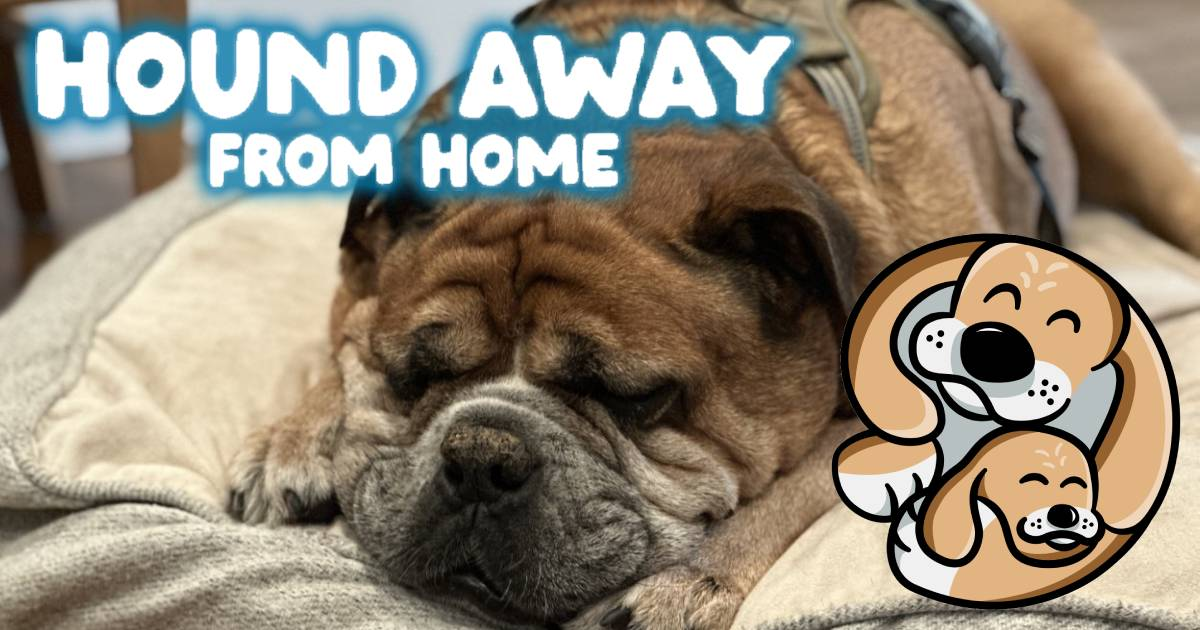
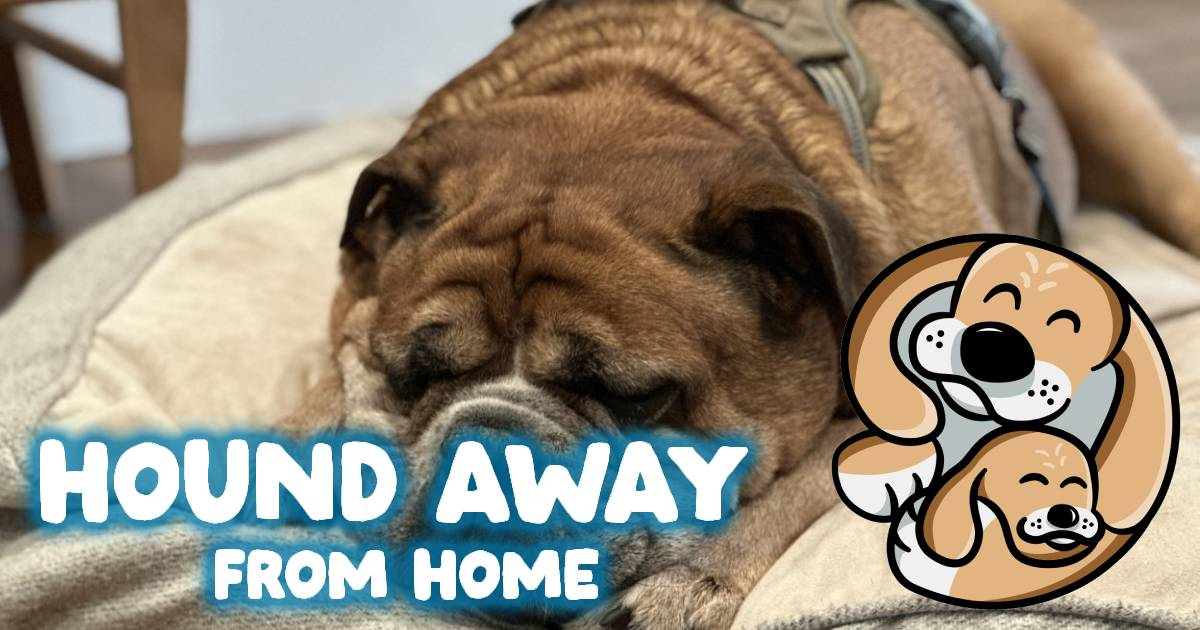
updated share images

Changed region(s): [[0.0, 0.6635, 0.6475, 0.9952], [0.0, 0.0, 0.6783, 0.3317]]

diff --git a/includes/head-tag-contents.php b/includes/head-tag-contents.php
@@ -4,7 +4,7 @@ $webhostUrl = (isset($_SERVER['SCRIPT_URL']) && isset($_SERVER['SCRIPT_URI'])) ?
 $title = "Hound Away From Home" . (isset($_GLOBALS["pageTitle"]) ? " - " . $_GLOBALS["pageTitle"] : "");
 $defaultDescription = "Welcome to Hound Away from Home, where your beloved canine companion finds a safe haven for boarding and daycare, ensuring they receive the care, attention, and fun they deserve while you're away.";
 $description = $_GLOBALS["pageDescription"] ?? $defaultDescription;
-$defaultImage = "/images/image-eli.jpg";
+$defaultImage = "/images/share/eli.jpg";
 $shareImage = $_GLOBALS["pageShareImage"] ?? $defaultImage;
 ?>
 <meta charset="utf-8" />

diff --git a/is-dog-boarding-right-for-me.php b/is-dog-boarding-right-for-me.php
@@ -6,7 +6,8 @@ require_once "includes/utility.php";
 require_once "includes/quiz-data.php";
 
 $_GLOBALS["pageTitle"] = "Take a quiz!";
-$_GLOBALS["pageDescription"] = "Take a quiz to find out if at-home dog-boarding right for you?";
+$_GLOBALS["pageDescription"] = "Take a quiz to find out if at-home dog-boarding right for you!";
+$_GLOBALS["pageShareImage"] = "/images/share/course.jpg";
 
 $quiz = $DOG_BOARDING_QUIZ;
 $currentQuestionId = $_REQUEST["question"] ?? 0;

diff --git a/download-free-ebook.php b/download-free-ebook.php
@@ -3,6 +3,7 @@ session_start();
 require_once "redirect.php";
 $_GLOBALS["pageTitle"] = "Download our Free E-book";
 $_GLOBALS["pageDescription"] = "Learn the basics of setting up your own at-home dog-boarding business by getting your own free copy of our e-book!";
+$_GLOBALS["pageShareImage"] = "/images/share/ebook.jpg";
 ?>
 <!doctype html>
 <html lang="en" class="bg-secondary">

diff --git a/watch-introductory-guide.php b/watch-introductory-guide.php
@@ -3,6 +3,7 @@ session_start();
 require_once "redirect.php";
 $_GLOBALS["pageTitle"] = "Watch an Introductory Guide";
 $_GLOBALS["pageDescription"] = "Learn all about the at-home dog-boarding and doggy daycare business and how you can get started in just 9 days!";
+$_GLOBALS["pageShareImage"] = "/images/share/guide.jpg";
 ?>
 <!doctype html>
 <html lang="en" class="bg-secondary">

diff --git a/introductory-guide.php b/introductory-guide.php
@@ -2,6 +2,8 @@
 session_start();
 require_once "redirect.php";
 $_GLOBALS["pageTitle"] = "Watch an Introductory Guide";
+$_GLOBALS["pageDescription"] = "Welcome to our introductory guide about your at-home dog-boarding business!";
+$_GLOBALS["pageShareImage"] = "/images/share/guide.jpg";
 ?>
 <!doctype html>
 <html lang="en" class="bg-secondary">
